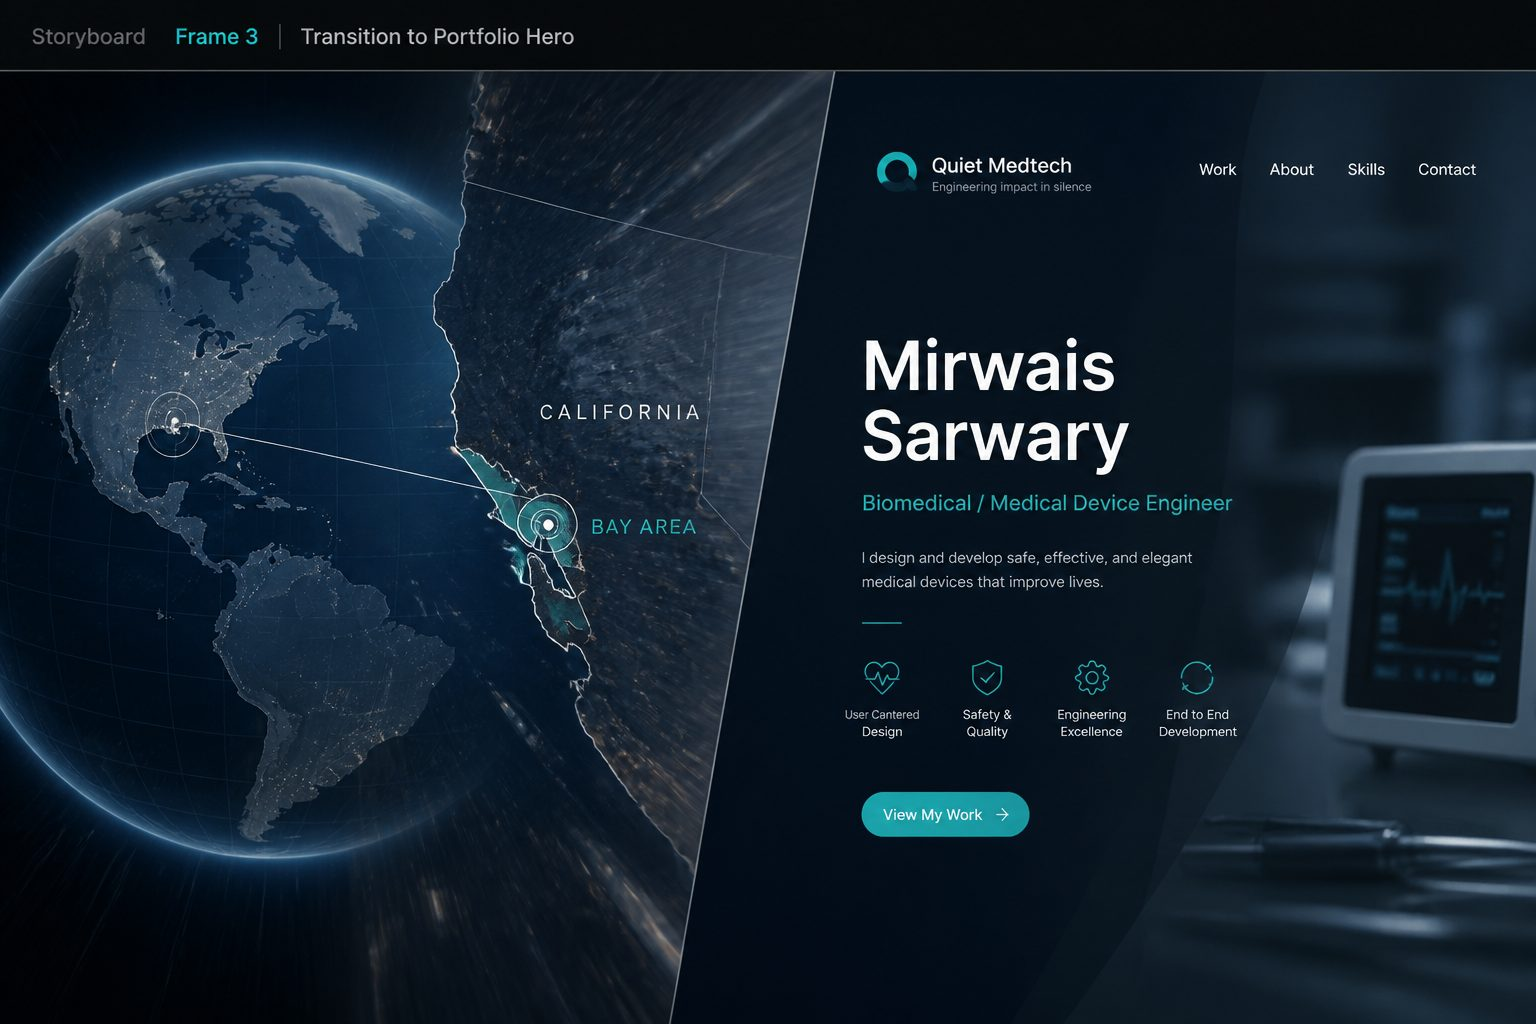
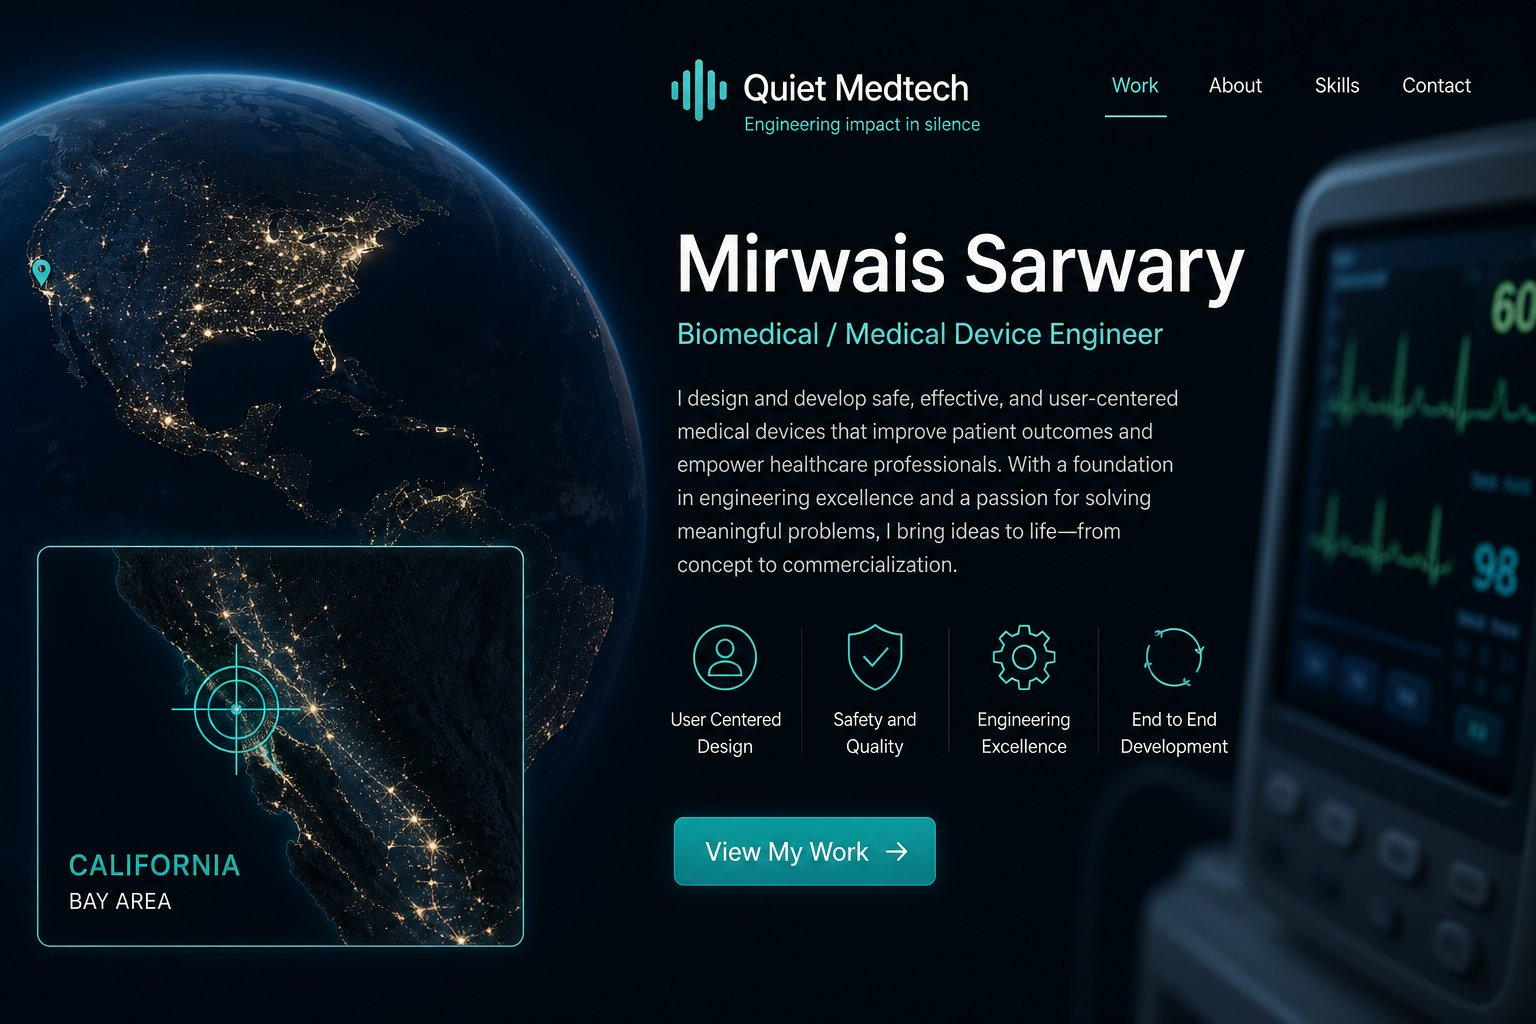
Fix Frame 3: Bay Area pin on California, remove Florida connector

diff --git a/css/portfolio_style.css b/css/portfolio_style.css
@@ -1352,11 +1352,11 @@ body.Intro_Active {
     background-color: #000;
 }
 .Intro_Stage_Bg--Zoom {
-    background-image: url("../images/intro/zoom.jpg?v=earth4");
+    background-image: url("../images/intro/zoom.jpg?v=earth5");
 }
 .Intro_Stage_Bg--Transition {
     /* Frame 3 storyboard: California/Bay Area + Quiet Medtech hero */
-    background-image: url("../images/intro/transition-hero.jpg?v=earth4");
+    background-image: url("../images/intro/transition-hero.jpg?v=earth5");
 }
 
 /* Panel and gate sit above the video */
@@ -1396,15 +1396,15 @@ body.Intro_Active {
         display: none !important;
     }
     .Intro_Stage_Bg--Gate {
-        background-image: url("../images/intro/gate.jpg?v=earth4");
+        background-image: url("../images/intro/gate.jpg?v=earth5");
         background-color: #0b1220;
     }
     .Intro_Stage_Bg--Found {
-        background-image: url("../images/intro/found.jpg?v=earth4");
+        background-image: url("../images/intro/found.jpg?v=earth5");
         background-color: #0b1220;
     }
     .Intro_Stage_Bg--Zoom {
-        background-image: url("../images/intro/zoom.jpg?v=earth4");
+        background-image: url("../images/intro/zoom.jpg?v=earth5");
     }
     .Intro_Status--Flash {
         animation: none;

diff --git a/index.html b/index.html
@@ -7,8 +7,8 @@
     <meta name="viewport" content="width=device-width, initial-scale=1.0">
     <meta name="description" content="Mirwais Sarwary — biomedical / medical-device engineer. R&D, robotics-adjacent systems, and practical software (C#/.NET, Python).">
     <title>Mirwais Sarwary | Biomedical / Medical Device Engineer</title>
-    <link rel="stylesheet" href="./css/portfolio_style.css?v=earth4">
-    <script src="./js/portfolio_JS.js?v=earth4" defer></script>
+    <link rel="stylesheet" href="./css/portfolio_style.css?v=earth5">
+    <script src="./js/portfolio_JS.js?v=earth5" defer></script>
 </head>
 <body class="Background Intro_Active">
 
